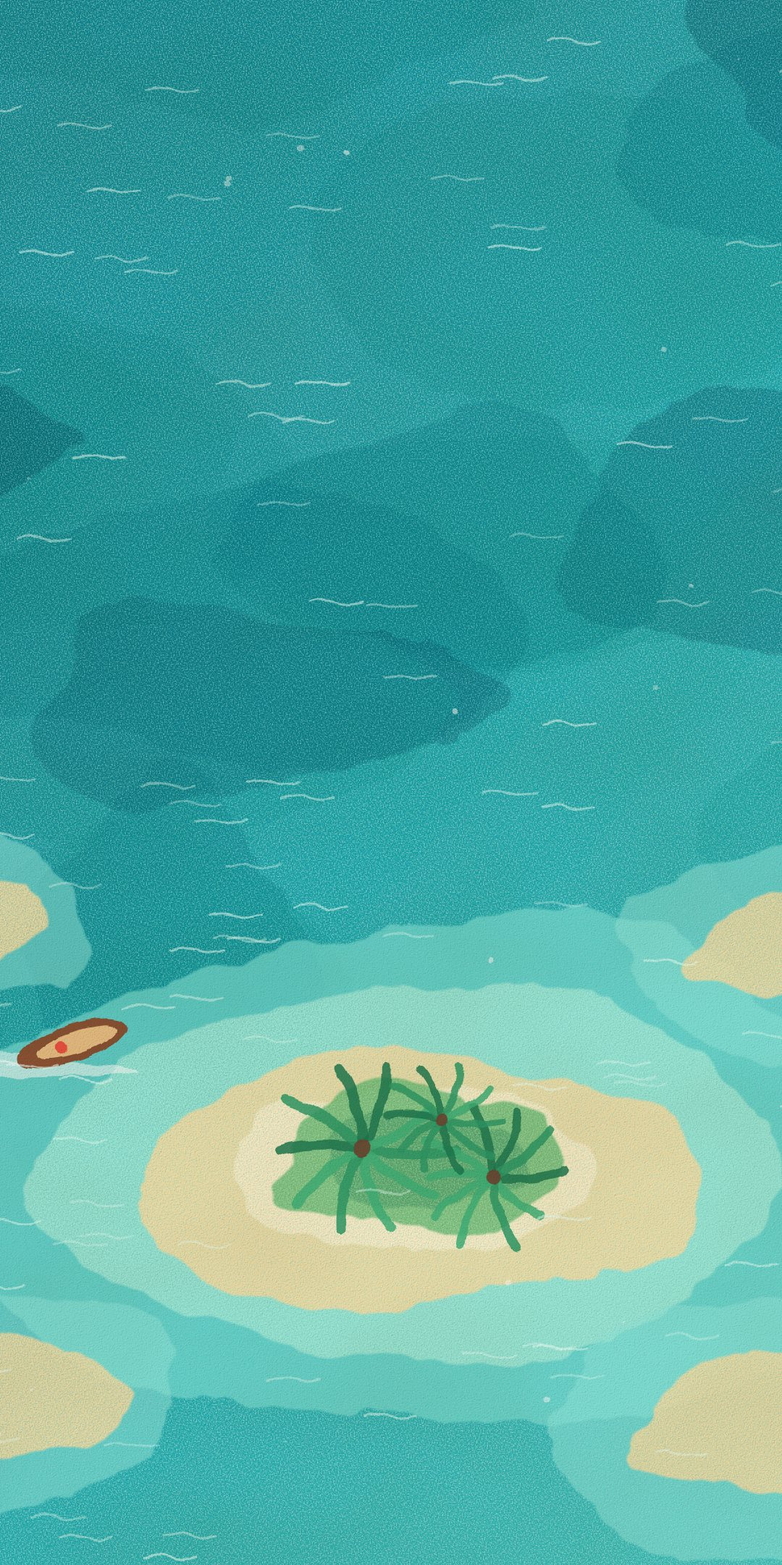
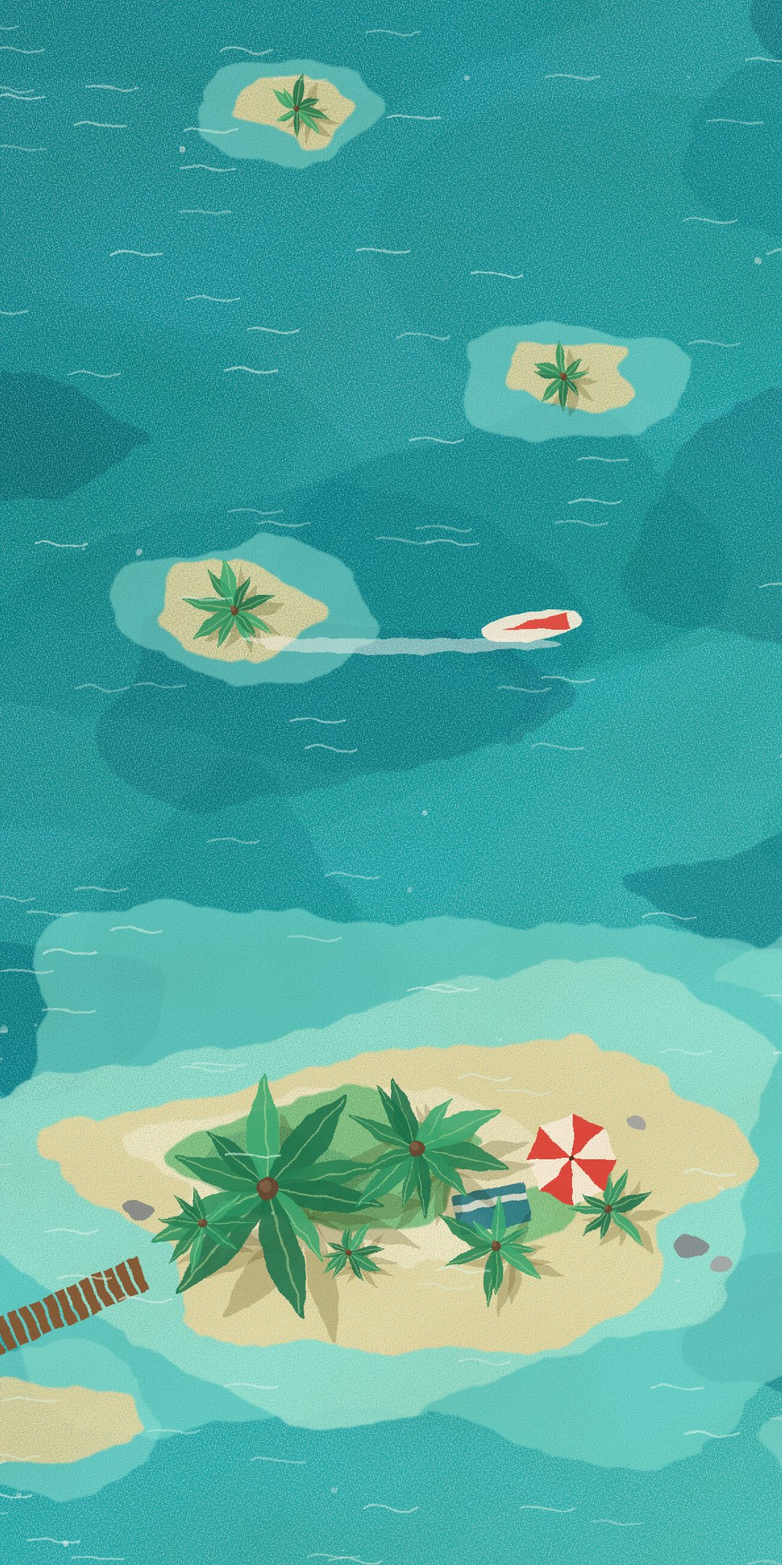
Rehacer Laguna (isla asimétrica), Otoño (banca bajo un arce) y Aurora (tienda con fogata)

diff --git a/index.html b/index.html
@@ -12,7 +12,7 @@
 <link rel="apple-touch-icon" href="img/app/icono-180.png">
 <title>TideTask</title>
 <link rel="icon" id="favicon" href="img/app/icono-192.png">
-<link rel="stylesheet" href="agenda.css?v=59">
+<link rel="stylesheet" href="agenda.css?v=60">
 <style>
   :root {
     /* Los define cada escena desde JS */
@@ -297,7 +297,7 @@
     .tabs button.on span { font-weight: 600; }
   }
 </style>
-<link rel="stylesheet" href="acuarela.css?v=59">
+<link rel="stylesheet" href="acuarela.css?v=60">
 </head>
 <body data-vista="agenda">
 
@@ -470,8 +470,8 @@
 <div class="toast" id="toast"></div>
 
 <script>window.NUBE_ACTIVA = true;   // sincronización con Google Drive (origen https://areslevel.github.io autorizado en el cliente OAuth)</script>
-<script src="nube.js?v=59"></script>
-<script src="agenda.js?v=59"></script>
+<script src="nube.js?v=60"></script>
+<script src="agenda.js?v=60"></script>
 <script>
   // ============ Utilidades ============
   const $ = id => document.getElementById(id);

diff --git a/generar_acuarelas.py b/generar_acuarelas.py
@@ -9,7 +9,7 @@ VERT = "--v" in sys.argv
 CW, CH = (1080, 2160) if VERT else (W, H)     # tamaño del lienzo visible
 DY = CH - H if VERT else 0                    # cuánto cielo se añade por encima
 X0 = {"amarillo": 840, "azul": 380, "rosado": 100, "verde": 420, "morado": 840, "naranja": 480,
-      "turquesa": 420, "rojo": 420, "aurora": 420, "niebla": 420}
+      "turquesa": 330, "rojo": 330, "aurora": 420, "niebla": 420}
 VX = 0                                        # borde izquierdo visible (se fija por escena)
 AQUI = os.path.dirname(os.path.abspath(__file__))
 OUT = os.environ.get("ACUARELA_OUT") or os.path.join(AQUI, "img")
@@ -448,16 +448,41 @@ def naranja():
 
 
 # ---------------------------------------------------------------- TURQUESA: laguna vista desde arriba (aérea)
-def vista_palmera(e, x, y, s):
+def hoja_palma(e, x, y, a, L, col, op=.88):
+    """Una fronda vista desde arriba: hoja alargada y arqueada que se afina en la punta."""
     r = e.r
+    dx, dy = math.cos(a), math.sin(a)
+    px, py = -dy, dx
+    bend = r.uniform(-.2, .2) * L
+    w = L * r.uniform(.09, .14)
+
+    def P(t, off):
+        return (x + dx * L * t + px * (bend * t * t + off), y + dy * L * t + py * (bend * t * t + off))
+    pts = [P(0, 0), P(.3, -w), P(.62, -w * 1.05), P(.88, -w * .4), P(1, 0), P(.85, w * .4), P(.6, w), P(.28, w * .9)]
+    return [e.p(suave(pts, True), col, op, False, 1), e.linea(f"M{n(x)} {n(y)} L{n(P(.95, 0)[0])} {n(P(.95, 0)[1])}", "#d8f2b0", max(1.5, L * .015), .45)]
+
+
+def vista_palmera(e, x, y, s, lean=(0, 0)):
+    r = e.r
+    cols = ["#1f7a52", "#2f9a68", "#3fb27a", "#2a8a5a"]
+    fr = r.randint(7, 11)
+    base = r.uniform(0, 6.28)
+    sombra, hojas = [], []
+    for i in range(fr):
+        a = base + 2 * math.pi * i / fr + r.uniform(-.28, .28)
+        L = s * r.uniform(.6, 1.12)
+        hojas += hoja_palma(e, x, y, a, L, r.choice(cols))
+        sombra += hoja_palma(e, x + lean[0], y + lean[1], a, L * .95, "#7a6a3a", .28)[:1]
+    return sombra, hojas + [e.circ(x, y, s * .09, "#6b4a35", .95), e.circ(x - 3, y - 3, s * .05, "#8a6a4a", .8)]
+
+
+def sombrilla(e, x, y, s):
     it = []
-    for i in range(10):
-        a = 2 * math.pi * i / 10 + r.uniform(-.12, .12)
-        L = s * r.uniform(.8, 1.05)
-        ex, ey = x + math.cos(a) * L, y + math.sin(a) * L * .92
-        mx, my = x + math.cos(a + .25) * L * .55, y + math.sin(a + .25) * L * .5
-        it.append(e.linea(f"M{n(x)} {n(y)} Q{n(mx)} {n(my)} {n(ex)} {n(ey)}", r.choice(["#1f7a52", "#2f9a68", "#3fb27a"]), max(5, s * .11), .85))
-    it.append(e.circ(x, y, s * .1, "#6b4a35", .95))
+    for i in range(8):
+        a0, a1 = 2 * math.pi * i / 8, 2 * math.pi * (i + 1) / 8
+        it.append(e.p(f"M{n(x)} {n(y)} L{n(x + math.cos(a0) * s)} {n(y + math.sin(a0) * s)} L{n(x + math.cos(a1) * s)} {n(y + math.sin(a1) * s)} Z",
+                      "#e8453c" if i % 2 == 0 else "#fff8ea", .95, False, 1))
+    it.append(e.circ(x, y, s * .06, "#3a2a1a", .9))
     return it
 
 
@@ -466,77 +491,153 @@ def turquesa():
     r = e.r
     e.g([e.full(e.grad([(0, "#0a7f94"), (.5, "#16aab8"), (1, "#4fd2cf")], 1, 1))])
     e.g([e.p(e.blob(r.uniform(0, W), r.uniform(-DY, H), r.uniform(200, 440), r.uniform(120, 280), 9, .25), r.choice(["#0b6f8a", "#1cb6c2", "#7fe6df"]), .3, False) for _ in range(16)])
-    # aguas someras y bancos de arena alrededor de la isla
-    e.g([e.p(e.blob(1000, 540, 700, 360, 11, .12), "#79e0d8", .75, False), e.p(e.blob(1000, 540, 520, 270, 11, .12), "#a9f0e0", .85, False)], mult=False)
-    for (x, y, rx, ry) in ((380, 840, 200, 90), (1620, 230, 230, 100), (1560, 900, 260, 110), (330, 190, 150, 70)):
-        e.g([e.p(e.blob(x, y, rx * 1.5, ry * 1.6, 9, .15), "#8fe8df", .6, False), e.p(e.blob(x, y, rx, ry, 9, .18), "#f3dfaa", .95, False)], mult=False)
-    e.g([e.p(e.blob(1000, 545, 360, 175, 11, .14), "#f3dfaa", .98, False), e.p(e.blob(990, 535, 250, 110, 11, .15), "#fff1cf", .85, False)], mult=False)
-    e.g([e.p(e.blob(1010, 520, 215, 100, 10, .14), "#6cbf7a", .9, False), e.p(e.blob(1000, 515, 140, 62, 9, .16), "#3f9a68", .55, False)], mult=False)
-    palmas = []
-    for (x, y, s) in ((920, 505, 125), (1100, 545, 105), (1030, 465, 92)):
-        palmas += vista_palmera(e, x, y, s)
-    e.g(palmas, "fino", mult=False)
-    # lancha vista desde arriba con su estela
-    bx, by, ang = 520, 360, -18
-    e.g([e.p(e.blob(bx - 250, by + 40, 280, 14, 8, .25), "#ffffff", .55, False), e.p(e.blob(bx - 190, by + 20, 200, 8, 8, .25), "#ffffff", .5, False)], "fino", mult=False)
-    e.g([f'<g transform="rotate({ang} {bx} {by})"><ellipse cx="{bx}" cy="{by}" rx="78" ry="26" fill="#8a4b2c" fill-opacity=".95"/>'
-         f'<ellipse cx="{bx + 6}" cy="{by}" rx="58" ry="15" fill="#e9c48a" fill-opacity=".95"/><circle cx="{bx - 16}" cy="{by}" r="9" fill="#e8453c" fill-opacity=".9"/></g>'], "fino", mult=False)
-    # destellos del sol sobre el agua
+    # arrecife: manchas oscuras de coral bajo el agua
+    e.g([e.p(e.blob(x, y, rx, ry, 9, .3), "#0a6a80", .45, False) for (x, y, rx, ry) in ((1500, 760, 240, 120), (1700, 640, 160, 90), (360, 330, 220, 100), (200, 520, 130, 80), (1420, 160, 200, 80))], mult=False)
+    # aguas someras y bancos de arena (formas irregulares, nada centrado)
+    e.g([e.p(e.blob(930, 560, 760, 380, 13, .2, .25), "#79e0d8", .75, False), e.p(e.blob(900, 560, 590, 290, 13, .22, .25), "#a9f0e0", .85, False)], mult=False)
+    for (x, y, rx, ry, rot) in ((1640, 250, 170, 70, .3), (360, 880, 130, 60, -.4), (1580, 930, 120, 50, .2)):
+        e.g([e.p(e.blob(x, y, rx * 1.6, ry * 1.8, 9, .2, rot), "#8fe8df", .6, False), e.p(e.blob(x, y, rx, ry, 9, .25, rot), "#f3dfaa", .95, False)], mult=False)
+    e.g([e.p(e.blob(880, 560, 440, 190, 14, .24, .3), "#f3dfaa", .98, False), e.p(e.blob(830, 535, 300, 120, 12, .26, .3), "#fff1cf", .85, False)], mult=False)
+    e.g([e.p(e.blob(790, 520, 220, 88, 11, .25, .32), "#6cbf7a", .9, False), e.p(e.blob(1060, 600, 80, 36, 8, .25), "#6cbf7a", .85, False),
+         e.p(e.blob(730, 540, 130, 50, 9, .25), "#3f9a68", .5, False)], mult=False)
+    # en la versión vertical, más mar por arriba: islotes con palmera y un velero visto desde arriba
+    if DY:
+        for (fx_, fy_, k_) in ((.30, .22, 1.0), (.72, .52, .8), (.38, .86, .7)):
+            ix, iy = VX + CW * fx_, -DY * fy_
+            e.g([e.p(e.blob(ix, iy, 190 * k_, 100 * k_, 9, .2, r.uniform(-.4, .4)), '#8fe8df', .6, False), e.p(e.blob(ix, iy, 120 * k_, 62 * k_, 9, .25), '#f3dfaa', .95, False)], mult=False)
+            sh_, hj_ = vista_palmera(e, ix, iy, 70 * k_, (16, 10))
+            e.g(sh_, 'fino')
+            e.g(hj_, 'fino', mult=False)
+        vx_, vy_ = VX + CW * .68, -DY * .2
+        e.g([e.p(e.blob(vx_ - 190, vy_ + 26, 230, 11, 8, .25), '#ffffff', .5, False)], 'fino', mult=False)
+        e.g([f'<g transform="rotate(-8 {n(vx_)} {n(vy_)})"><ellipse cx="{n(vx_)}" cy="{n(vy_)}" rx="70" ry="20" fill="#fff8ea" fill-opacity=".95"/><path d="M{n(vx_ - 40)} {n(vy_)} L{n(vx_ + 50)} {n(vy_ - 12)} L{n(vx_ + 50)} {n(vy_ + 12)} Z" fill="#e8453c" fill-opacity=".92"/></g>'], 'fino', mult=False)
+    # rocas en la orilla
+    e.g([e.p(e.blob(x, y, s, s * .7, 7, .3), c, .92, False) for (x, y, s, c) in ((1280, 640, 26, "#8a8f94"), (1325, 665, 17, "#a9adb0"), (520, 590, 20, "#8a8f94"), (1210, 470, 14, "#a9adb0"))], "fino", mult=False)
+    # muelle de madera hacia la izquierda con lancha amarrada
+    tab = []
+    for i in range(16):
+        t = i / 15
+        x = 520 - t * 250
+        y = 680 + t * 110
+        tab.append(f'<g transform="rotate(-24 {n(x)} {n(y)})"><rect x="{n(x - 6)}" y="{n(y - 24)}" width="14" height="48" fill="#8a5a34" fill-opacity=".95"/></g>')
+    e.g(tab, "fino", mult=False)
+    e.g([f'<g transform="rotate(-62 190 860)"><ellipse cx="190" cy="860" rx="70" ry="24" fill="#8a4b2c" fill-opacity=".95"/>'
+         f'<ellipse cx="196" cy="860" rx="52" ry="14" fill="#e9c48a" fill-opacity=".95"/></g>'], "fino", mult=False)
+    # toalla y sombrilla
+    e.g([f'<g transform="rotate(-12 1010 590)"><rect x="960" y="560" width="100" height="56" fill="#2f7f8f" fill-opacity=".9"/><rect x="960" y="574" width="100" height="10" fill="#fff8ea" fill-opacity=".8"/></g>'], "fino", mult=False)
+    e.g(sombrilla(e, 1120, 520, 62), "fino", mult=False)
+    # palmeras de distinto tamaño, torcidas y desparejas
+    sombras, copas = [], []
+    for (x, y, s, ln) in ((700, 560, 175, (60, 40)), (905, 505, 120, (40, 30)), (1015, 640, 80, (24, 16)), (610, 610, 70, (22, 14)), (810, 650, 52, (18, 12)), (1170, 590, 60, (20, 14))):
+        sh, hj = vista_palmera(e, x, y, s, ln)
+        sombras += sh
+        copas += hj
+    e.g(sombras, "fino")
+    e.g(copas, "fino", mult=False)
+    # una lancha a lo lejos con su estela
+    bx, by = 1560, 440
+    e.g([e.p(e.blob(bx + 170, by + 38, 210, 12, 8, .25), "#ffffff", .55, False), e.p(e.blob(bx + 120, by + 24, 150, 7, 8, .25), "#ffffff", .5, False)], "fino", mult=False)
+    e.g([f'<g transform="rotate(-14 {bx} {by})"><ellipse cx="{bx}" cy="{by}" rx="54" ry="19" fill="#fff8ea" fill-opacity=".95"/><ellipse cx="{bx - 4}" cy="{by}" rx="38" ry="10" fill="#2f7f8f" fill-opacity=".9"/></g>'], "fino", mult=False)
     e.g([e.linea(f"M{n(x)} {n(y)} q18 -6 36 0 q18 6 36 0", "#e6fffb", 3, r.uniform(.3, .6)) for x, y in ((r.uniform(0, W), r.uniform(-DY, H)) for _ in range(150))], "fino", mult=False)
     e.g(e.salpicar(30, "#ffffff", 0, -DY, W, H, 5, .6), "fino", mult=False)
     return e
 
 
-# ---------------------------------------------------------------- ROJO: mirando hacia arriba entre las copas del otoño
-def tronco_fuga(e, bx, ancho, cx, cy, c, op):
-    pts_i, pts_d = [], []
-    for k in range(9):
-        t = k / 8
-        x = bx + (cx + (bx - cx) * .3 - bx) * t * t + (cx - bx) * .12 * t
-        y = H + 80 + (cy + 40 - H - 80) * t
-        w = ancho * (1 - t * .85)
-        pts_i.append((x - w / 2, y))
-        pts_d.append((x + w / 2, y))
-    return e.p(suave(pts_i + pts_d[::-1], True), c, op)
+# ---------------------------------------------------------------- ROJO: una banca bajo el arce, con el parque desenfocado detrás
+def hoja_arce(e, x, y, s, rot, col, op=.88):
+    pts = []
+    for i in range(10):
+        a = rot + i * math.pi / 5
+        rad = s if i == 0 else (s * .92 if i in (2, 8) else s * .74) if i % 2 == 0 else s * .42
+        pts.append((x + math.cos(a) * rad, y + math.sin(a) * rad))
+    d = "M" + " L".join(f"{n(px)} {n(py)}" for px, py in pts) + "Z"
+    return [e.p(d, col, op, False, 1), e.linea(f"M{n(x)} {n(y)} L{n(x - math.cos(rot) * s * .55)} {n(y - math.sin(rot) * s * .55)}", "#6a3a20", max(1.5, s * .06), .7)]
+
+
+ROJOS = ["#c8281e", "#a21c24", "#e5502a", "#d8321e", "#f08a2a"]
 
 
 def rojo():
     e = Esc(83, "#fbf1e6")
     r = e.r
-    cx, cy = 960, 330
-    e.g([e.full(e.grad([(0, "#f2a77a"), (.5, "#f9c999"), (1, "#fde3b4")]))])
-    halo(e, cx, cy, 460, "#fff6dc", 1)
-    e.g([f'<polygon points="{cx - 40},{cy} {cx + 40},{cy} {cx + 420},{H + 60} {cx - 420},{H + 60}" fill="#fff3cf" fill-opacity=".3"/>'], "brillo", mult=False)
-    # troncos que se juntan hacia arriba (visto desde abajo)
-    for bx, a in ((90, 190), (420, 140), (760, 100), (1160, 100), (1500, 140), (1830, 190)):
-        e.g([tronco_fuga(e, bx + r.uniform(-30, 30), a, cx, cy, "#4a2f2a", .88)], "fino", mult=False)
-    # ramas hacia el centro
-    ramas = []
-    for _ in range(14):
-        sx = r.uniform(150, 1770)
-        sy = r.uniform(300, 760)
-        d = 1 if sx < cx else -1
-        ramas.append(e.linea(f"M{n(sx)} {n(sy)} q{n(d * r.uniform(60, 160))} {n(-r.uniform(40, 110))} {n(d * r.uniform(150, 300))} {n(-r.uniform(80, 200))}", "#4a2f2a", r.uniform(5, 14), .8))
-    e.g(ramas, "fino", mult=False)
-    # copas alrededor del claro de cielo
+    e.g([e.full(e.grad([(0, "#f2a77a"), (.45, "#f9c999"), (1, "#fde3b4")]))])
+    # parque desenfocado al fondo (bokeh y copas lejanas)
+    e.g([e.p(e.blob(r.uniform(0, W), r.uniform(-DY, 640), r.uniform(120, 260), r.uniform(80, 180), 9, .3), r.choice(ROJOS + ["#f2b134"]), .4, False) for _ in range(24)], "brillo", mult=False)
+    e.g([e.circ(r.uniform(0, W), r.uniform(-DY, 800), r.uniform(26, 80), r.choice(["#ffd88a", "#ff9a4a", "#ff6a4a", "#fff0c0"]), r.uniform(.25, .5)) for _ in range(34)], "bokeh", mult=False)
+    e.g([f'<polygon points="500,{-DY - 50} 700,{-DY - 50} 1000,{H} 640,{H}" fill="#fff3cf" fill-opacity=".28"/>',
+         f'<polygon points="900,{-DY - 50} 1040,{-DY - 50} 1500,{H} 1180,{H}" fill="#fff3cf" fill-opacity=".2"/>'], "brillo", mult=False)
+    # suelo con alfombra de hojas
+    e.g([e.p(e.cresta(780, 22, 260), "#d9964a", .95)], mult=False)
+    e.g([e.p(e.cresta(880, 20, 260), "#e8b36a", .95)], mult=False)
+    suelo = []
+    for _ in range(300):
+        y = r.uniform(800, H + 20)
+        k = (y - 780) / (H - 780)
+        suelo += hoja_arce(e, r.uniform(0, W), y, r.uniform(8, 20) * (.5 + k), r.uniform(0, 6.28), r.choice(ROJOS + ["#f2b134"]), r.uniform(.55, .85))
+    e.g(suelo, "fino", mult=False)
+    # tronco grande a la derecha: se pierde hacia arriba
+    izq, der = [], []
+    for k in range(10):
+        t = k / 9
+        y = -DY - 60 + (900 + DY + 60) * t
+        w = 190 + 120 * (t ** 3) + 14 * math.sin(t * 9)
+        c = 1230 + 14 * math.sin(t * 5)
+        izq.append((c - w / 2, y))
+        der.append((c + w / 2, y))
+    e.g([e.p(suave(izq + der[::-1], True), "#5a3a2e", .96)], "fino", mult=False)
+    corteza = []
+    for _ in range(46):
+        t0 = r.uniform(0, .8)
+        y0 = -DY + (900 + DY) * t0
+        x0 = r.uniform(1130, 1330)
+        corteza.append(e.linea(f"M{n(x0)} {n(y0)} q{n(r.uniform(-8, 8))} 60 {n(r.uniform(-6, 6))} {n(r.uniform(90, 200))}", r.choice(["#3a2420", "#8a6a54", "#2a1810"]), r.uniform(2, 6), .45))
+    for sg in (-1, 1):
+        for _ in range(3):
+            corteza.append(e.linea(f"M{n(1230 + sg * r.uniform(110, 140))} 880 q{n(sg * 70)} 20 {n(sg * r.uniform(150, 260))} {n(r.uniform(80, 120))}", "#5a3a2e", r.uniform(16, 34), .9))
+    e.g(corteza, "fino", mult=False)
+    # rama larga hacia la banca
+    e.g([e.linea("M1180 330 Q1000 250 760 170", "#4a2f2a", 48, .95), e.linea("M1180 330 Q1000 250 760 170", "#6a4a3a", 14, .6),
+         e.linea("M980 250 Q900 330 840 380", "#4a2f2a", 18, .9), e.linea("M860 195 Q800 140 720 130", "#4a2f2a", 14, .9)], "fino", mult=False)
+    # copa
     copas = []
-    for _ in range(90):
-        a = r.uniform(0, 2 * math.pi)
-        d = r.uniform(300, 1000)
-        x, y = cx + math.cos(a) * d * 1.75, cy + math.sin(a) * d * .95
-        s = r.uniform(80, 210) * (.7 + d / 1100)
-        copas.append(e.p(e.blob(x, y, s * 1.2, s * .85, 8, .28), r.choice(["#c8281e", "#e5502a", "#f08a2a", "#a21c24", "#f2b134"]), r.uniform(.5, .78), False))
-    for _ in range(max(0, int(DY / 38))):
-        x, y = r.uniform(VX - 60, VX + CW + 60), r.uniform(-DY, 60)
-        s = r.uniform(110, 230)
-        copas.append(e.p(e.blob(x, y, s * 1.2, s * .85, 8, .28), r.choice(["#c8281e", "#e5502a", "#f08a2a", "#a21c24", "#f2b134"]), r.uniform(.55, .8), False))
+    for _ in range(46):
+        x, y = r.uniform(520, 1920), r.uniform(-DY - 40, 360)
+        s = r.uniform(120, 250)
+        copas.append(e.p(e.blob(x, y, s * 1.2, s * .8, 8, .28), r.choice(ROJOS + ["#f2b134"]), r.uniform(.55, .8), False))
+    for _ in range(int(DY / 45)):
+        x, y = r.uniform(VX - 60, VX + CW + 60), r.uniform(-DY - 40, 40)
+        s = r.uniform(120, 230)
+        copas.append(e.p(e.blob(x, y, s * 1.2, s * .85, 8, .28), r.choice(ROJOS + ["#f2b134"]), r.uniform(.6, .85), False))
     e.g(copas)
+    colgantes = []
+    for _ in range(46):
+        colgantes += hoja_arce(e, r.uniform(500, 1500), r.uniform(230, 520), r.uniform(26, 50), r.uniform(0, 6.28), r.choice(ROJOS + ["#f2b134"]))
+    e.g(colgantes, "fino", mult=False)
+    # banca de parque
+    madera, oscuro = "#8a5a34", "#3a2a22"
+    e.g([e.linea("M470 700 L470 930", oscuro, 16, .95), e.linea("M900 700 L900 930", oscuro, 16, .95),
+         e.linea("M470 880 L440 960", oscuro, 12, .95), e.linea("M900 880 L930 960", oscuro, 12, .95),
+         e.linea("M520 880 L500 940", oscuro, 10, .8), e.linea("M850 880 L870 940", oscuro, 10, .8)], "fino", mult=False)
+    tablas = []
+    for y, h_ in ((720, 34), (772, 34)):
+        tablas.append(e.p(f"M455 {y} L915 {y} L915 {y + h_} L455 {y + h_} Z", madera, .97, True, 2))
+    for y, d in ((850, 0), (884, 0), (918, 0)):
+        tablas.append(e.p(f"M440 {y} L930 {y} L944 {y + 26} L426 {y + 26} Z", "#9a6a40" if y == 884 else madera, .97, True, 2))
+    e.g(tablas, "fino", mult=False)
+    sobre = []
+    for _ in range(22):
+        sobre += hoja_arce(e, r.uniform(470, 900), r.uniform(850, 925), r.uniform(14, 26), r.uniform(0, 6.28), r.choice(ROJOS + ["#f2b134"]))
+    e.g(sobre, "fino", mult=False)
     # hojas cayendo
     caen = []
-    for _ in range(130):
-        x, y = r.uniform(0, W), r.uniform(-DY, H)
-        caen.append(e.p(e.blob(x, y, r.uniform(7, 16), r.uniform(4, 9), 6, .2, r.uniform(0, 3)), r.choice(["#d8321e", "#f08a2a", "#f2b134"]), .78, False))
+    for _ in range(46):
+        caen += hoja_arce(e, r.uniform(0, W), r.uniform(-DY, 880), r.uniform(18, 34), r.uniform(0, 6.28), r.choice(ROJOS + ["#f2b134"]), .88)
     e.g(caen, "fino", mult=False)
+    # hojas grandes desenfocadas en primer plano
+    gr = []
+    for (x, y, s) in ((150, 980, 150), (1750, 880, 120), (1010, -DY + 200, 140)):
+        gr += hoja_arce(e, x, y, s, r.uniform(0, 6.28), r.choice(ROJOS), .8)
+    e.g(gr, "bokeh", mult=False)
     return e
 
 
@@ -552,33 +653,75 @@ def pino(e, x, base, alto, c, op):
     return e.p(suave(der + izq, True), c, op, False)
 
 
+def llama(fx, fy, s):
+    return (f"M{n(fx - 38 * s)} {n(fy)} C{n(fx - 52 * s)} {n(fy - 60 * s)} {n(fx - 12 * s)} {n(fy - 90 * s)} {n(fx - 4 * s)} {n(fy - 160 * s)} "
+            f"C{n(fx + 22 * s)} {n(fy - 96 * s)} {n(fx + 58 * s)} {n(fy - 56 * s)} {n(fx + 38 * s)} {n(fy)} Z")
+
+
 def aurora():
     e = Esc(97, "#eef4f4")
     r = e.r
-    hz = 660
-    e.g([e.full(e.grad([(0, "#06122e"), (.55, "#0f3a52"), (1, "#1d6a72")]))])
-    e.g([e.circ(r.uniform(500, 1420), r.uniform(60, 560), r.uniform(1.4, 3.4), "#f4fffb", r.uniform(.5, .95)) for _ in range(60)], "fino", mult=False)
-    cortinas = []
-    for i, col in enumerate(["#3cf2a2", "#35d6d8", "#7be8c8", "#8a7cf0"]):
-        pts = [(x, 200 + 55 * i + math.sin(x / 200 + i * 1.7) * 80 + r.uniform(-20, 20)) for x in range(300, 1700, 150)]
-        g = e.grad([(0, col), (1, "#06122e")], 0, 1)
-        cortinas.append(f'<path d="{suave(pts)} L1700 {hz} L300 {hz} Z" fill="{g}" fill-opacity=".5"/>')
+    hz = 690
+    fx, fy = 1030, 930                      # la fogata
+    e.g([e.full(e.grad([(0, "#050c26"), (.5, "#0c2f4c"), (1, "#145a66")]))])
+    e.g([e.circ(r.uniform(380, 1540), r.uniform(-DY, 560), r.uniform(1.4, 3.6), "#f4fffb", r.uniform(.5, .98)) for _ in range(130)], "fino", mult=False)
+    # aurora: cortinas anchas + rayos verticales
+    cortinas, rayos = [], []
+    cols = ["#3cf2a2", "#35d6d8", "#7be8c8", "#9a86ff", "#3cf2a2"]
+    for i, col in enumerate(cols):
+        pts = [(x, 150 + 60 * i + math.sin(x / 190 + i * 1.3) * 95 + r.uniform(-18, 18)) for x in range(300, 1700, 140)]
+        g = e.grad([(0, col), (.6, col), (1, "#06122e")], 0, 1)
+        cortinas.append(f'<path d="{suave(pts)} L1700 {hz} L300 {hz} Z" fill="{g}" fill-opacity=".62"/>')
+        for _ in range(16):
+            x = r.uniform(380, 1540)
+            y0 = 150 + 60 * i + math.sin(x / 190 + i * 1.3) * 95
+            rayos.append(e.linea(f"M{n(x)} {n(y0)} L{n(x + r.uniform(-20, 20))} {n(y0 + r.uniform(160, 330))}", col, r.uniform(7, 16), r.uniform(.15, .3)))
     e.g(cortinas, "brillo", mult=False)
-    e.g([e.p(e.cresta(hz - 80, 50, 170, 300, 1700, hz + 4), "#274f68", .85)], mult=False)
-    e.g([e.p(e.cresta(hz - 36, 30, 150, 300, 1700, hz + 4), "#1b3a52", .9)], mult=False)
-    e.g([e.p(f"M300 {hz} L1700 {hz} L1700 {H + 100} L300 {H + 100} Z", e.grad([(0, "#2a7a82"), (.5, "#134a5e"), (1, "#071b36")]), 1, False)], mult=False)
-    e.g([e.p(e.blob(r.uniform(700, 1200), hz + 40 + i * 30, r.uniform(160, 320), 8 + i, 8, .3), r.choice(["#3cf2a2", "#35d6d8"]), .22, False) for i in range(9)], "fino", mult=False)
-    pinos = [pino(e, r.uniform(560, 1360), hz + r.uniform(8, 36), r.uniform(80, 220), "#07201f", .9) for _ in range(22)]
+    e.g(rayos, "bokeh", mult=False)
+    # montañas con nieve y reflejo en el lago
+    e.g([e.p(e.cresta(hz - 100, 70, 170, 300, 1700, hz + 4), "#2a5878", .92)], mult=False)
+    e.g([e.p(e.cresta(hz - 50, 40, 150, 300, 1700, hz + 4), "#1b3d56", .95)], mult=False)
+    e.g([e.p(e.blob(r.uniform(420, 1500), hz - 105 + r.uniform(-30, 30), r.uniform(50, 100), 12, 7, .3), "#dff6f4", .55, False) for _ in range(7)], "fino", mult=False)
+    e.g([e.p(f"M300 {hz} L1700 {hz} L1700 {H + 100} L300 {H + 100} Z", e.grad([(0, "#2a8a8a"), (.45, "#12485e"), (1, "#06182f")]), 1, False)], mult=False)
+    e.g([e.p(e.blob(r.uniform(520, 1400), hz + 30 + i * 22, r.uniform(160, 340), 7 + i * .6, 8, .3), cols[i % 4], .3, False) for i in range(10)], "fino", mult=False)
+    # orilla con nieve y pinos
+    e.g([e.p(e.cresta(850, 24, 170, 300, 1700, H + 100), "#07181c", .97)], mult=False)
+    e.g([e.p(e.blob(r.uniform(420, 1500), r.uniform(880, 1020), r.uniform(70, 170), r.uniform(10, 24), 8, .3), "#bfd8e0", .4, False) for _ in range(9)], mult=False)
+    pinos = [pino(e, r.uniform(430, 1500), hz + r.uniform(0, 30), r.uniform(70, 190), "#07201f", .9) for _ in range(22)]
+    pinos += [pino(e, x, 880 + r.uniform(0, 30), a, "#041411", .95) for x, a in ((470, 420), (590, 300), (1450, 400), (1330, 280))]
     e.g(pinos, "fino", mult=False)
-    # tela de la tienda: todo lo que queda fuera del arco de la entrada
-    arco = suave([(430, H + 160), (540, 700), (690, 380), (960, 190), (1230, 380), (1380, 700), (1490, H + 160)], True)
+    # fogata en la orilla
+    halo(e, fx, fy - 60, 330, "#ffb040", .85)
+    e.g([e.p(e.blob(fx + math.cos(a) * 112, fy + 6 + math.sin(a) * 34, r.uniform(15, 24), 12, 7, .3), r.choice(["#6a7077", "#8a9096", "#555b61"]), .95, False)
+         for a in [i * math.pi / 5 + r.uniform(-.1, .1) for i in range(10)]], "fino", mult=False)
+    e.g([e.linea(f"M{fx - 80} {fy + 14} L{fx + 70} {fy - 14}", "#3a2418", 26, .95), e.linea(f"M{fx + 80} {fy + 14} L{fx - 70} {fy - 14}", "#2a180e", 24, .95)], "fino", mult=False)
+    e.g([e.p(llama(fx, fy, 1), "#e8531c", .92, False), e.p(llama(fx + 6, fy, .72), "#ff9a2a", .94, False), e.p(llama(fx + 2, fy, .42), "#ffe27a", .96, False)], "fino", mult=False)
+    e.g([e.circ(fx + r.uniform(-80, 110), fy - r.uniform(120, 360), r.uniform(2, 5), r.choice(["#ffd27a", "#ff9a2a"]), r.uniform(.5, 1)) for _ in range(26)], "fino", mult=False)
+    # tela de la tienda: todo lo que queda fuera de la entrada
+    arco = suave([(290, H + 160), (370, 780), (500, 450), (740, 250), (960, 190), (1180, 250), (1420, 450), (1550, 780), (1630, H + 160)], True)
     e.b.append(f'<path d="M-400 {-DY - 400} H{W + 400} V{H + 400} H-400 Z {arco}" fill="#0c1326" fill-opacity=".97" fill-rule="evenodd"/>')
-    e.g([e.p(e.blob(r.choice([250, 1700]), r.uniform(0, H), 150, 520, 8, .2), "#1a2442", .55, False) for _ in range(5)], "fino", mult=False)
-    e.g([e.linea(arco, "#ffb55a", 7, .35)], "fino", mult=False)
-    # farol dentro de la tienda
-    halo(e, 260, 900, 420, "#ffb040", .7)
-    e.g([e.p(e.blob(260, 920, 34, 52, 8, .1), "#ffd27a", .95, False), e.linea("M260 880 L260 860", "#3a2a1a", 5, .9)], "fino", mult=False)
-    e.g(e.salpicar(14, "#ffd27a", 120, 700, 420, 1050, 4, .7), "fino", mult=False)
+    # costuras y pliegues
+    cost = []
+    for x in range(-200, 2200, 190):
+        cost.append(e.linea(f"M{x} {-DY - 60} L{n(960 + (x - 960) * .72)} 170", "#1b274a", 5, .6))
+    e.g(cost, "fino", mult=False)
+    e.g([e.p(e.blob(r.choice([180, 1760]), r.uniform(150, 800), 150, 420, 8, .2), "#1a2442", .5, False) for _ in range(6)], "fino", mult=False)
+    puntadas = f'<path d="{arco}" fill="none" stroke="#ffb55a" stroke-opacity=".45" stroke-width="3" stroke-dasharray="14 12"/>'
+    e.g([e.linea(arco, "#ffb55a", 9, .3), puntadas], "fino", mult=False)
+    # la luz de la fogata baña la tela de abajo
+    halo(e, fx, fy, 620, "#ff9a3a", .5)
+    # farol colgado
+    lx, ly = 520, 400
+    halo(e, lx, ly + 26, 330, "#ffb040", .75)
+    e.g([e.linea(f"M{lx} {-DY - 60} L{lx} {ly - 22}", "#2a2018", 4, .9), e.p(e.blob(lx, ly + 22, 26, 38, 8, .1), "#ffd27a", .96, False),
+         e.p(f"M{lx - 20} {ly - 12} L{lx + 20} {ly - 12} L{lx + 14} {ly - 26} L{lx - 14} {ly - 26} Z", "#3a2a1a", .95, False)], "fino", mult=False)
+    # saco de dormir, botas y taza con vapor en primer plano
+    e.g([e.p(e.blob(150, 1010, 440, 160, 11, .13, -.1), "#b4482a", .97, False)], "fino", mult=False)
+    e.g([e.linea(f"M{x} 880 Q{x + 20} 1010 {x - 10} 1120", "#7a2a14", 4, .55) for x in (-40, 80, 200, 320, 440)], "fino", mult=False)
+    e.g([e.p(e.blob(560, 1040, 54, 30, 8, .2, -.3), "#3a2a1a", .96, False), e.p(e.blob(640, 1062, 50, 28, 8, .2, -.2), "#2a1c10", .96, False)], "fino", mult=False)
+    mx, my = 1640, 1010
+    e.g([e.p(f"M{mx - 34} {my - 40} L{mx + 34} {my - 40} L{mx + 28} {my + 36} L{mx - 28} {my + 36} Z", "#d9d2c4", .96, False), e.linea(f"M{mx + 34} {my - 20} q34 8 0 40", "#d9d2c4", 8, .95),
+         e.linea(f"M{mx - 14} {my - 64} q-12 -30 8 -56 q14 -22 -6 -48", "#ffffff", 5, .4), e.linea(f"M{mx + 8} {my - 64} q14 -30 -6 -56", "#ffffff", 4, .3)], "fino", mult=False)
     return e
 
 
